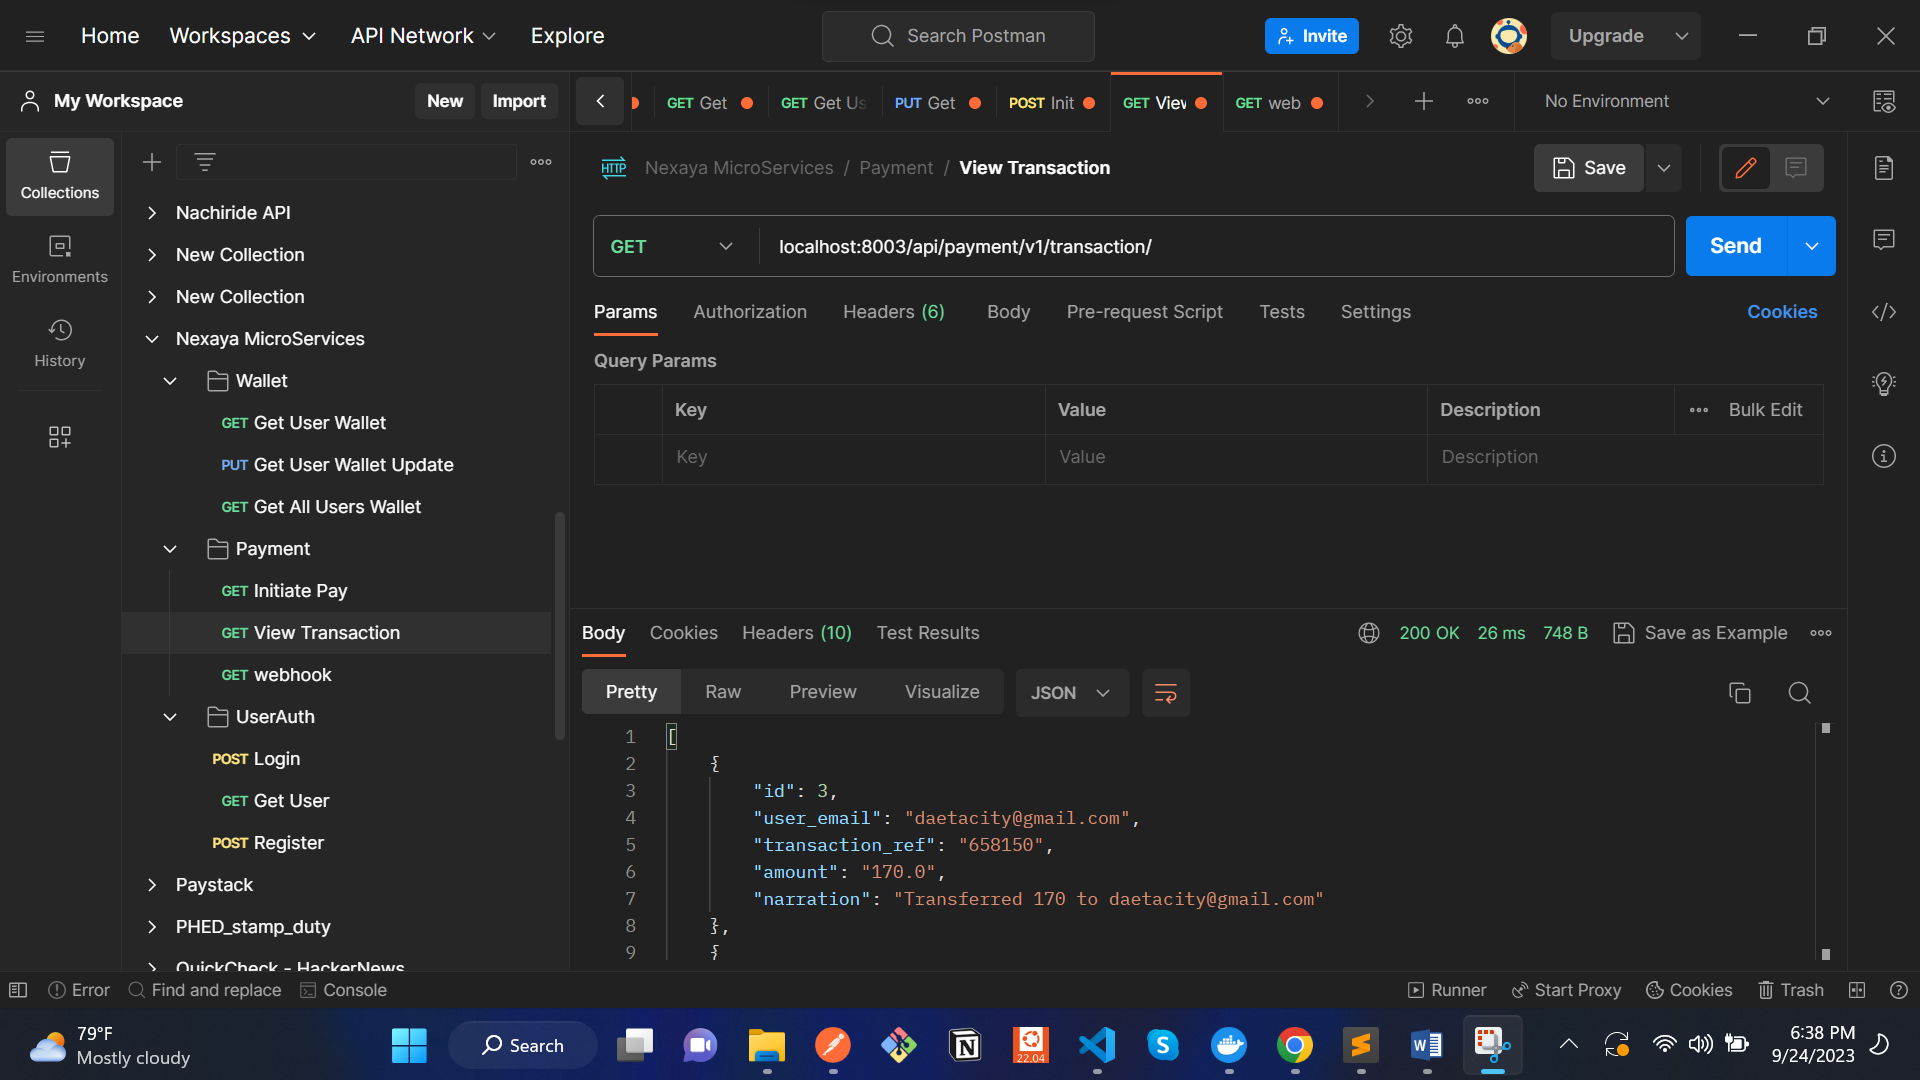
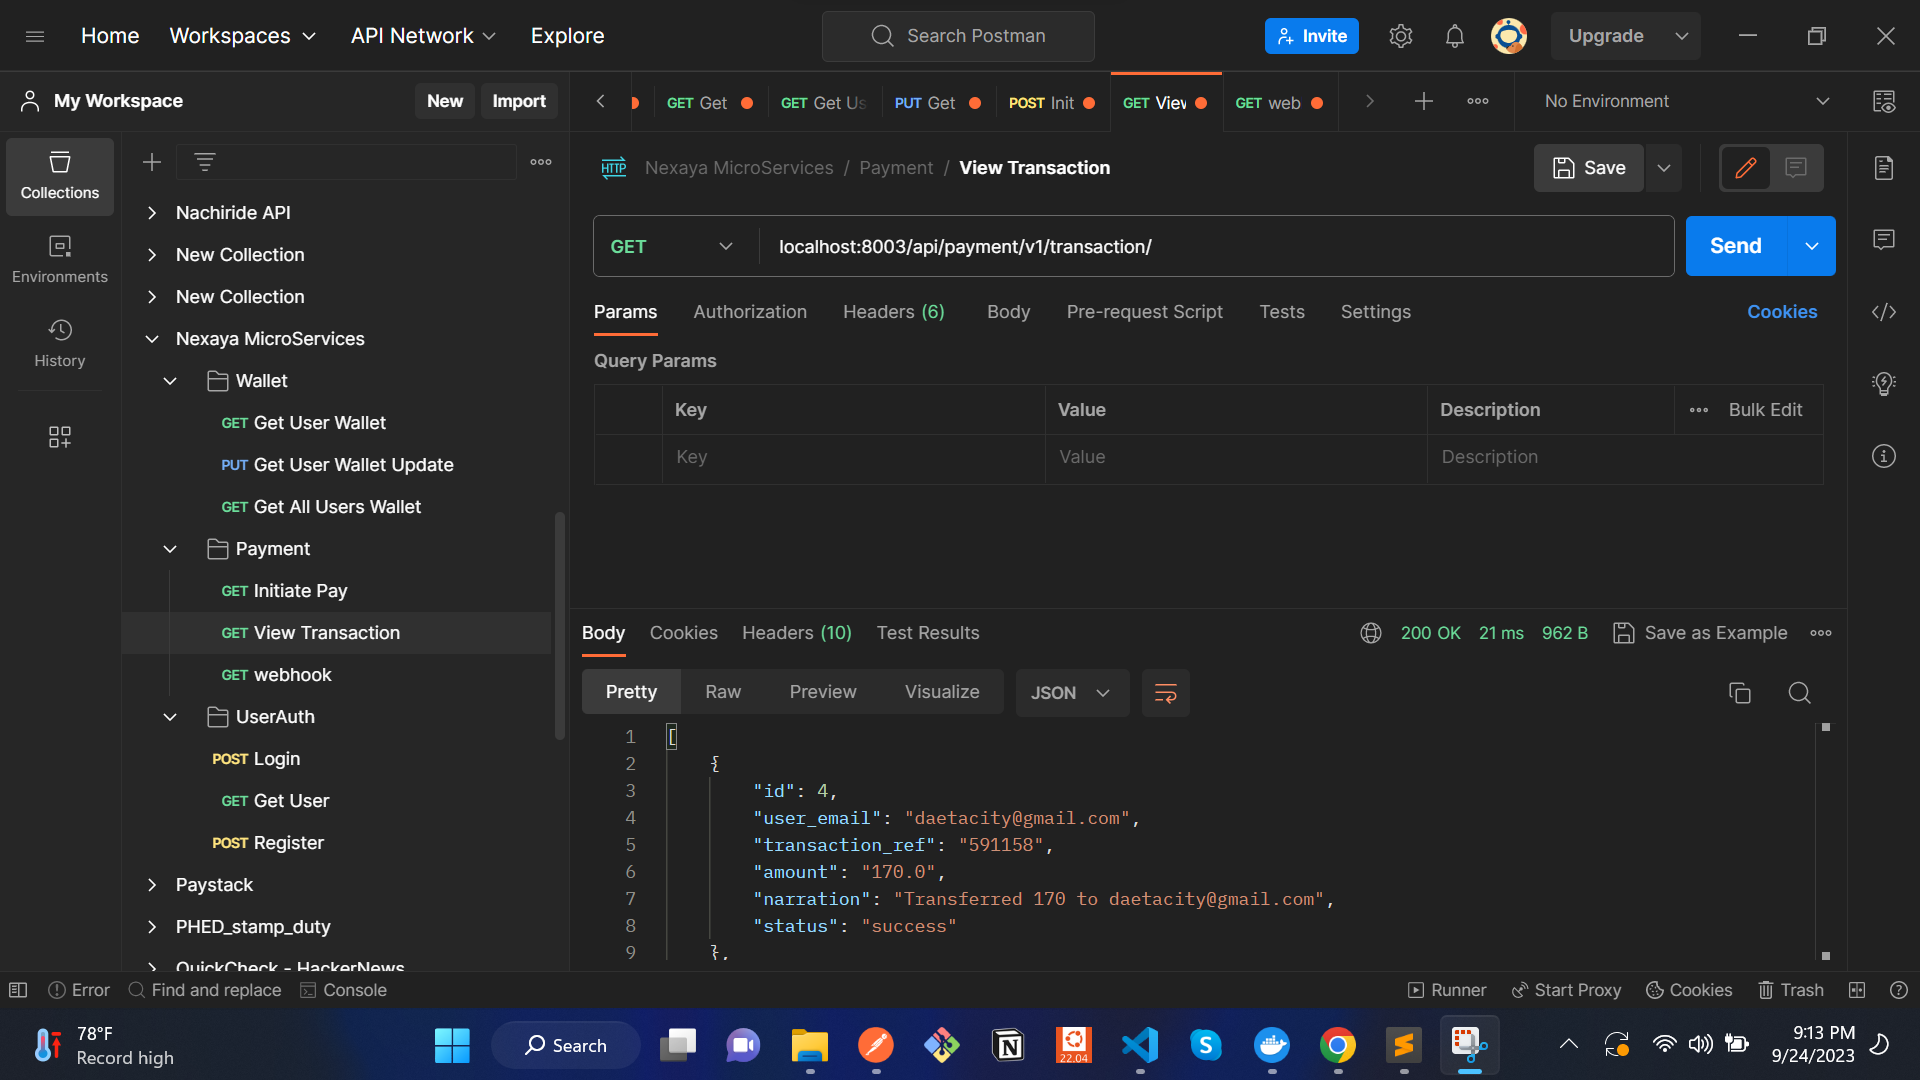
added transaction status

diff --git a/Payment/paymentapp/views.py b/Payment/paymentapp/views.py
@@ -30,11 +30,20 @@ def payment(request):
                             transaction_ref = str(random.randint(100000, 999999)),
                             amount = request.data['amount'],
                             narration = f"Transferred {request.data['amount']} to {user_email}",
+                            status='success',
                     )
             instance.save()
             return Response({'message':'successful','account_balance':new_balance})
     except:
         #raise
+        instance = Transaction(
+                        user_email=user_email,
+                        transaction_ref = str(random.randint(100000, 999999)),
+                        amount = request.data['amount'],
+                        narration = f"Transferred {request.data['amount']} to {user_email}",
+                        status='failed',
+            )
+        instance.save()
         return Response({'error':'something went wrong, try again later'}, status=status.HTTP_400_BAD_REQUEST)
 
 
@@ -53,7 +62,8 @@ def webhook_check(request,transaction_ref):
             'user_email':transaction.user_email,
             'Reference':transaction.transaction_ref,
             'amount':transaction.amount,
-            'narration':transaction.narration
+            'narration':transaction.narration,
+            'narration':transaction.status
         }
     except UserWallet.DoesNotExist:
         return Response(status=status.HTTP_404_NOT_FOUND)

diff --git a/Payment/paymentapp/migrations/0002_transaction_status.py b/Payment/paymentapp/migrations/0002_transaction_status.py
@@ -1,0 +1,18 @@
+# Generated by Django 4.2.3 on 2023-09-24 20:09
+
+from django.db import migrations, models
+
+
+class Migration(migrations.Migration):
+
+    dependencies = [
+        ('paymentapp', '0001_initial'),
+    ]
+
+    operations = [
+        migrations.AddField(
+            model_name='transaction',
+            name='status',
+            field=models.CharField(blank=True, default='failed', max_length=140, null=True),
+        ),
+    ]

diff --git a/Payment/paymentapp/models.py b/Payment/paymentapp/models.py
@@ -30,6 +30,7 @@ class Transaction(models.Model):
     transaction_ref = models.CharField(max_length=140, blank=True, null=True)
     amount = models.DecimalField(max_digits=50, default=0, decimal_places=1)
     narration = models.CharField(max_length=140, blank=True, null=True)
+    status = models.CharField(max_length=140, blank=True, null=True, default='failed')
 
     def __str__(self):
         return str(self.user_email)
